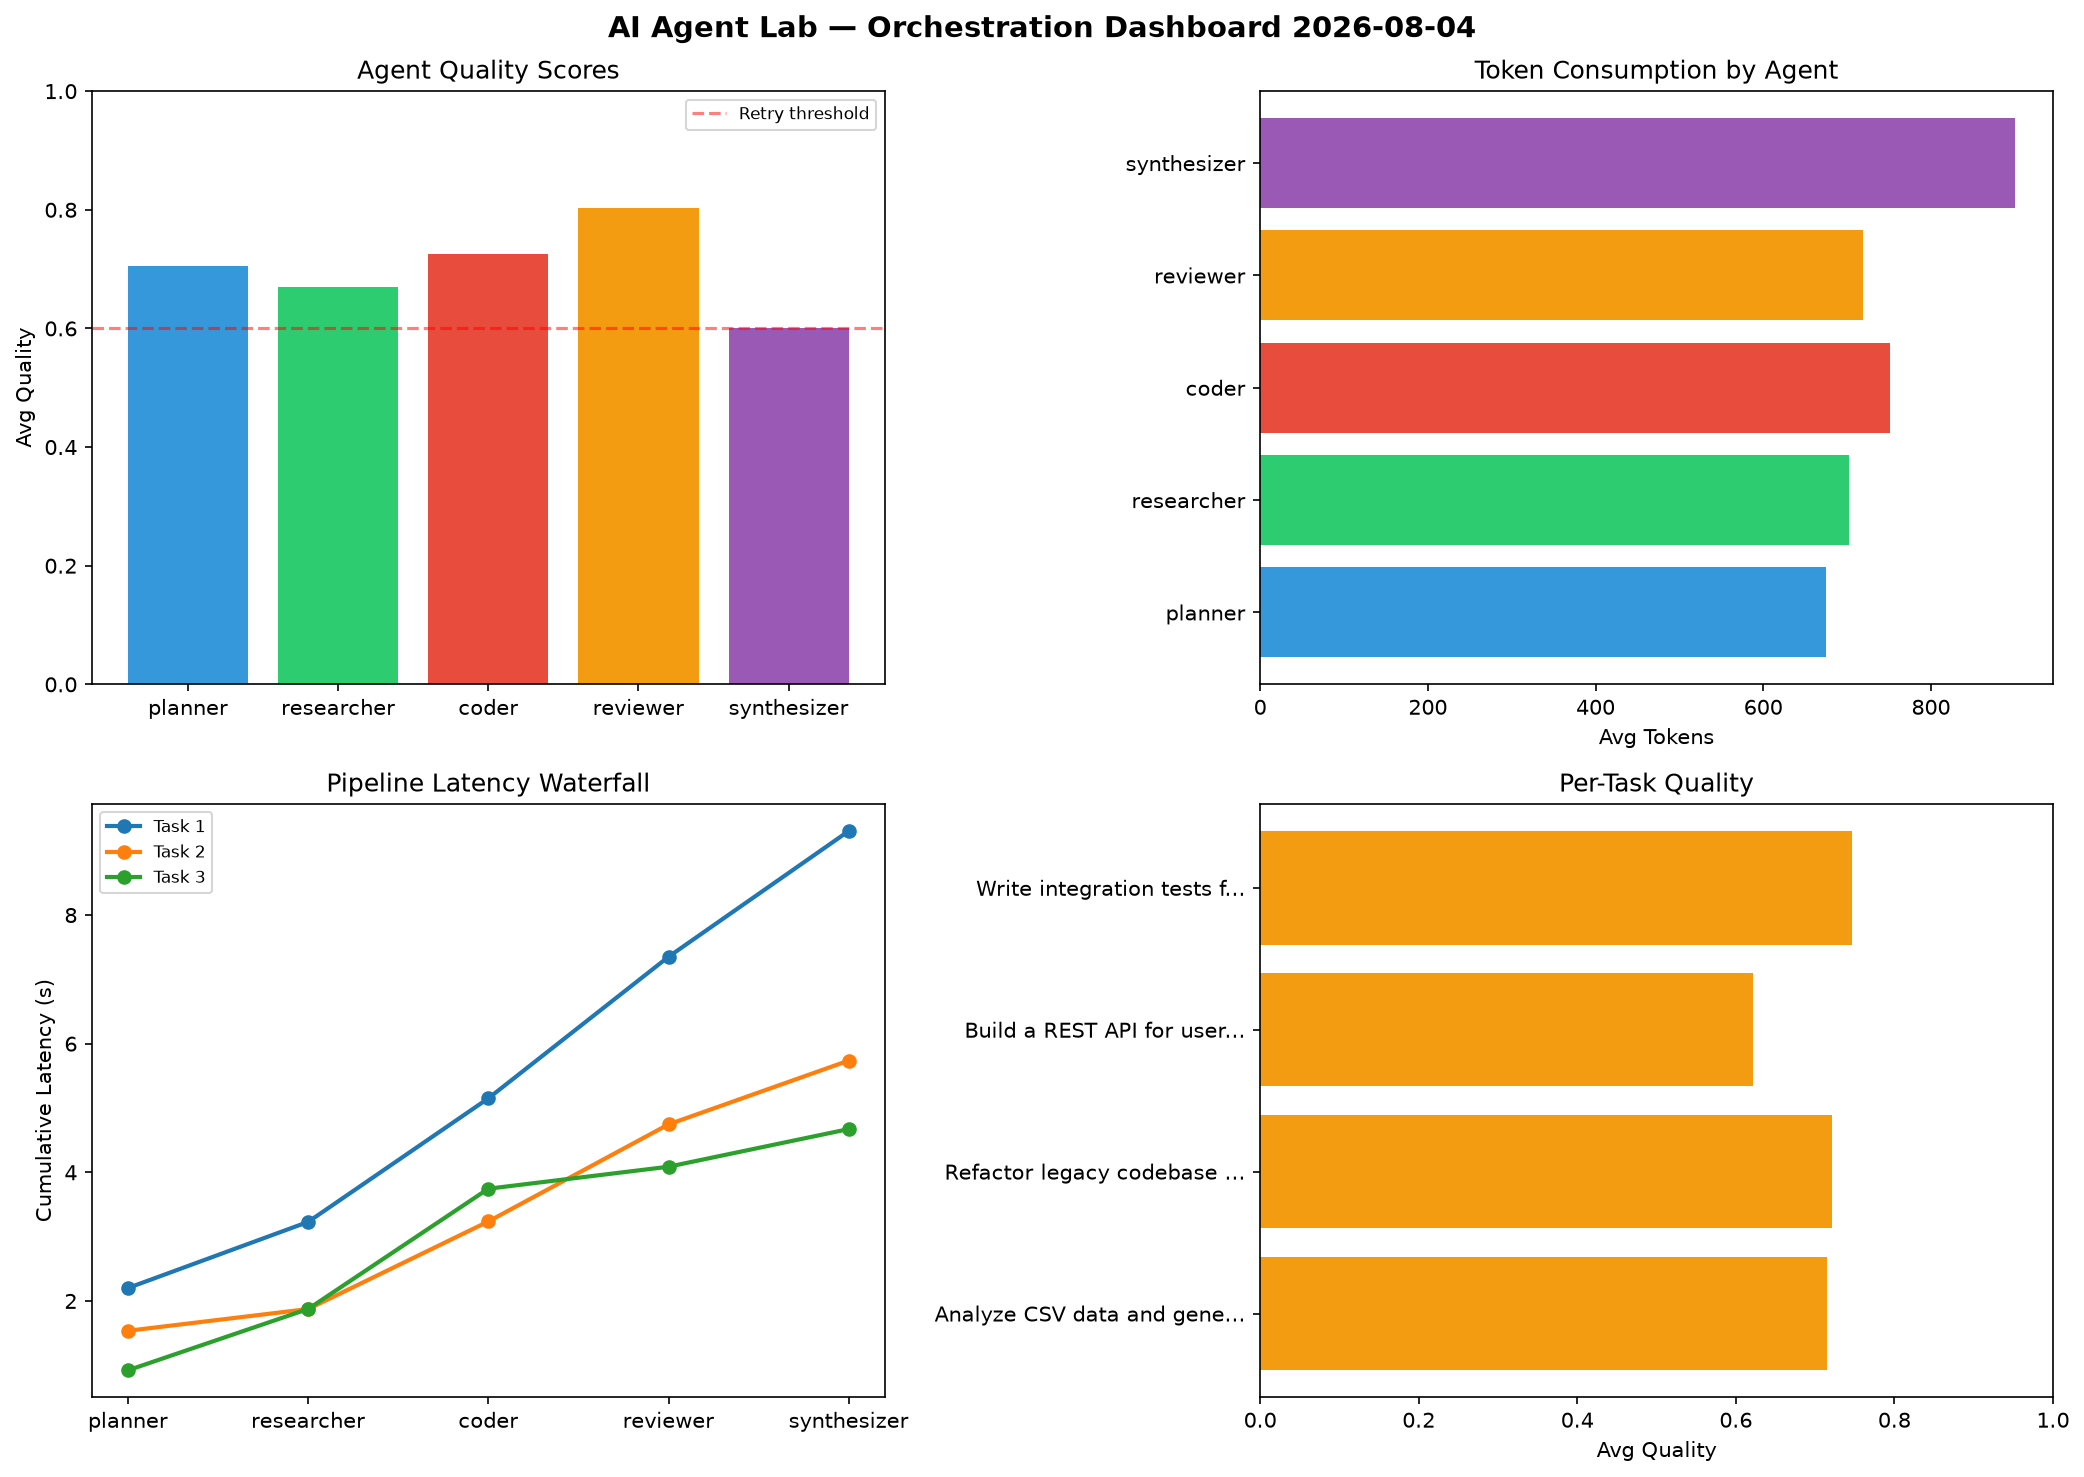
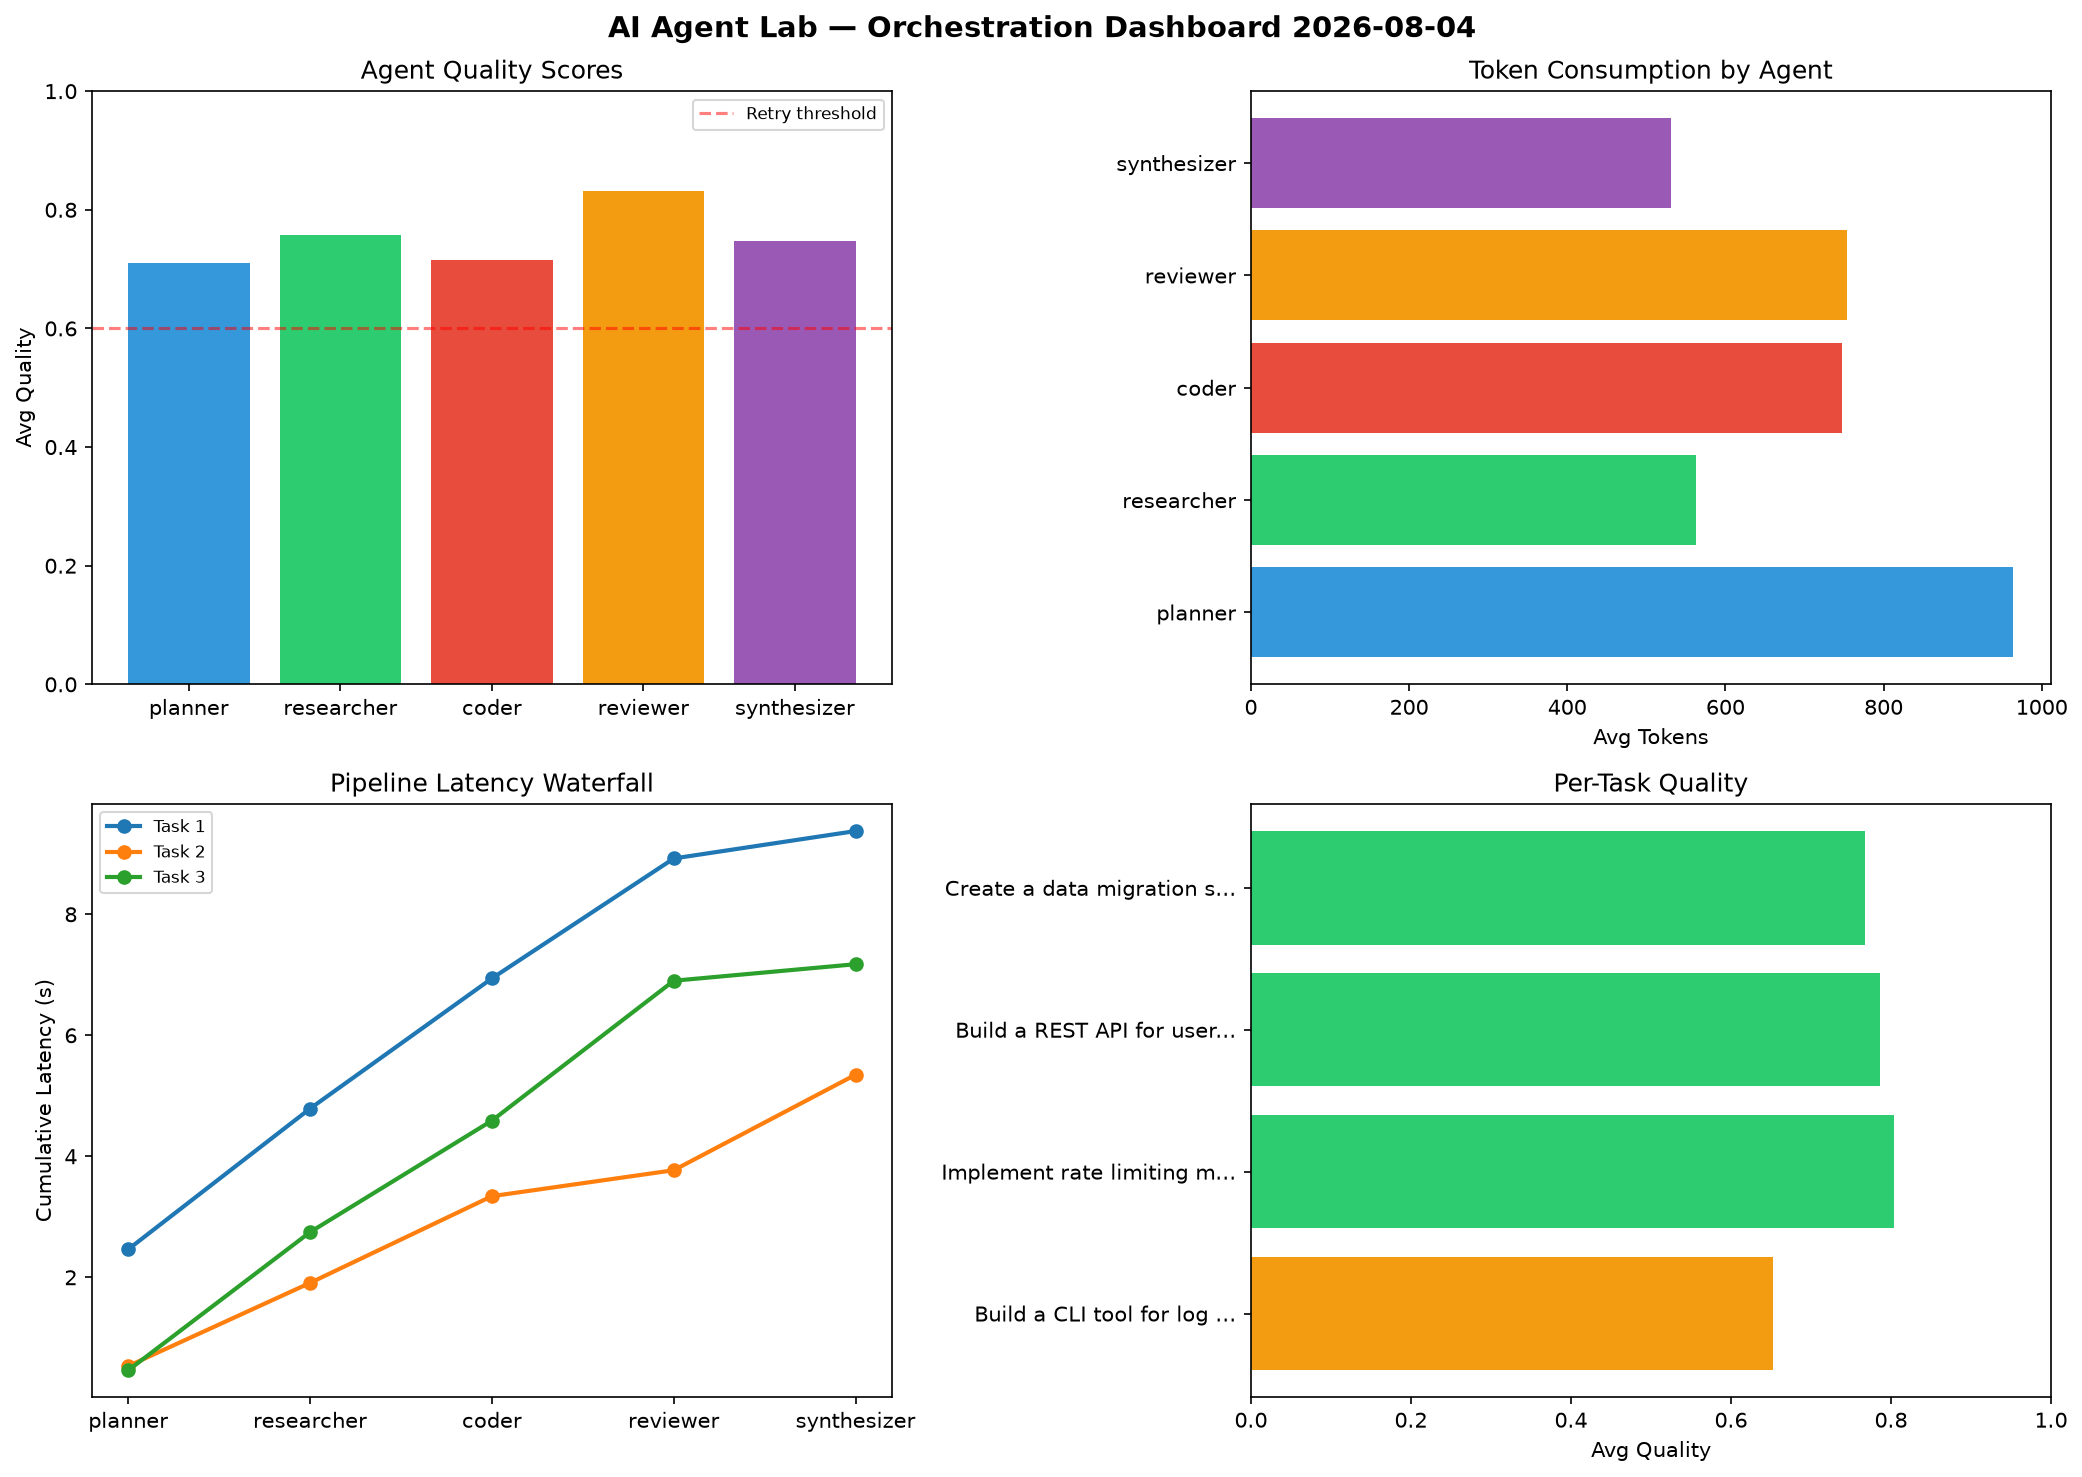
ai-agent-lab: orchestration run 2026-08-04T16:23

diff --git a/logs/2026-08-04.md b/logs/2026-08-04.md
@@ -1,6 +1,6 @@
 # AI Agent Lab — Orchestration Report 2026-08-04
 
-**Run ID:** `066ffd72e5` | **Tasks:** 4 | **Avg Quality:** 0.701
+**Run ID:** `08eda6cfff` | **Tasks:** 4 | **Avg Quality:** 0.752
 
 ![Dashboard](2026-08-04_dashboard.png)
 
@@ -8,52 +8,52 @@
 
 | Metric | Value |
 |--------|-------|
-| avg_latency | 6.382 |
-| total_tokens | 14992 |
-| avg_quality | 0.701 |
+| avg_latency | 6.837 |
+| total_tokens | 14240 |
+| avg_quality | 0.752 |
 
 ## Delta vs Yesterday
 
 | Metric | Today | Yesterday | Change |
 |--------|-------|-----------|--------|
-| avg_latency | 6.382 | 6.475 | 📉 -1.4% |
-| total_tokens | 14992 | 13646 | 📈 9.9% |
-| avg_quality | 0.701 | 0.666 | 📈 5.3% |
+| avg_latency | 6.837 | 6.475 | 📈 5.6% |
+| total_tokens | 14240 | 13646 | 📈 4.4% |
+| avg_quality | 0.752 | 0.666 | 📈 12.9% |
 
 ## Pipeline Results
 
-### Analyze CSV data and generate statistical summary
+### Build a CLI tool for log analysis
 | Agent | Quality | Latency | Tokens | Status |
 |-------|---------|---------|--------|--------|
-| planner | 0.816 | 2.201s | 715 | success |
-| researcher | 0.682 | 1.028s | 360 | success |
-| coder | 0.597 | 1.921s | 854 | needs_retry |
-| reviewer | 0.816 | 2.201s | 289 | success |
-| synthesizer | 0.665 | 1.955s | 614 | success |
+| planner | 0.534 | 2.463s | 959 | needs_retry |
+| researcher | 0.608 | 2.326s | 639 | success |
+| coder | 0.64 | 2.152s | 1046 | success |
+| reviewer | 0.817 | 1.982s | 989 | success |
+| synthesizer | 0.661 | 0.453s | 937 | success |
 
-### Refactor legacy codebase to use dependency injection
+### Implement rate limiting middleware
 | Agent | Quality | Latency | Tokens | Status |
 |-------|---------|---------|--------|--------|
-| planner | 0.599 | 1.536s | 525 | needs_retry |
-| researcher | 0.847 | 0.338s | 859 | success |
-| coder | 0.578 | 1.362s | 719 | needs_retry |
-| reviewer | 0.897 | 1.509s | 889 | success |
-| synthesizer | 0.686 | 0.992s | 1006 | success |
+| planner | 0.633 | 0.533s | 998 | success |
+| researcher | 0.561 | 1.375s | 503 | needs_retry |
+| coder | 0.931 | 1.433s | 787 | success |
+| reviewer | 0.997 | 0.429s | 674 | success |
+| synthesizer | 0.897 | 1.579s | 375 | success |
 
 ### Build a REST API for user authentication
 | Agent | Quality | Latency | Tokens | Status |
 |-------|---------|---------|--------|--------|
-| planner | 0.574 | 0.922s | 787 | needs_retry |
-| researcher | 0.572 | 0.953s | 591 | needs_retry |
-| coder | 0.754 | 1.87s | 614 | success |
-| reviewer | 0.691 | 0.342s | 969 | success |
-| synthesizer | 0.515 | 0.585s | 759 | needs_retry |
+| planner | 0.966 | 0.463s | 1207 | success |
+| researcher | 0.959 | 2.284s | 546 | success |
+| coder | 0.539 | 1.843s | 672 | needs_retry |
+| reviewer | 0.652 | 2.312s | 896 | success |
+| synthesizer | 0.812 | 0.273s | 604 | success |
 
-### Write integration tests for payment processing module
+### Create a data migration script for schema v2
 | Agent | Quality | Latency | Tokens | Status |
 |-------|---------|---------|--------|--------|
-| planner | 0.834 | 0.502s | 671 | success |
-| researcher | 0.577 | 1.395s | 1000 | needs_retry |
-| coder | 0.97 | 1.155s | 817 | success |
-| reviewer | 0.808 | 1.447s | 731 | success |
-| synthesizer | 0.539 | 1.315s | 1223 | needs_retry |
+| planner | 0.706 | 1.744s | 690 | success |
+| researcher | 0.899 | 0.595s | 565 | success |
+| coder | 0.749 | 1.949s | 485 | success |
+| reviewer | 0.864 | 0.252s | 457 | success |
+| synthesizer | 0.618 | 0.907s | 211 | success |
